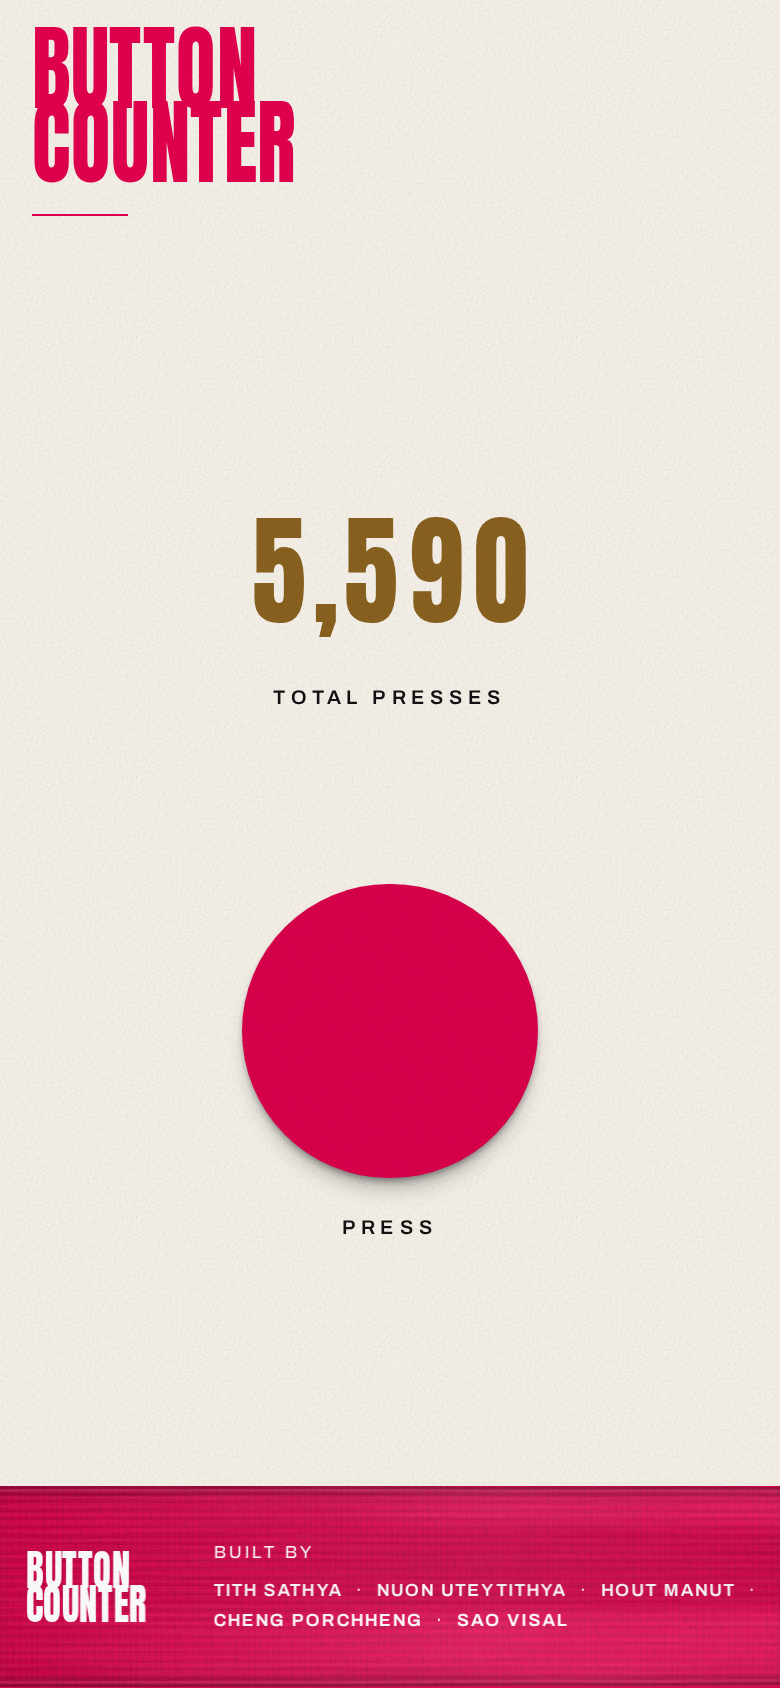
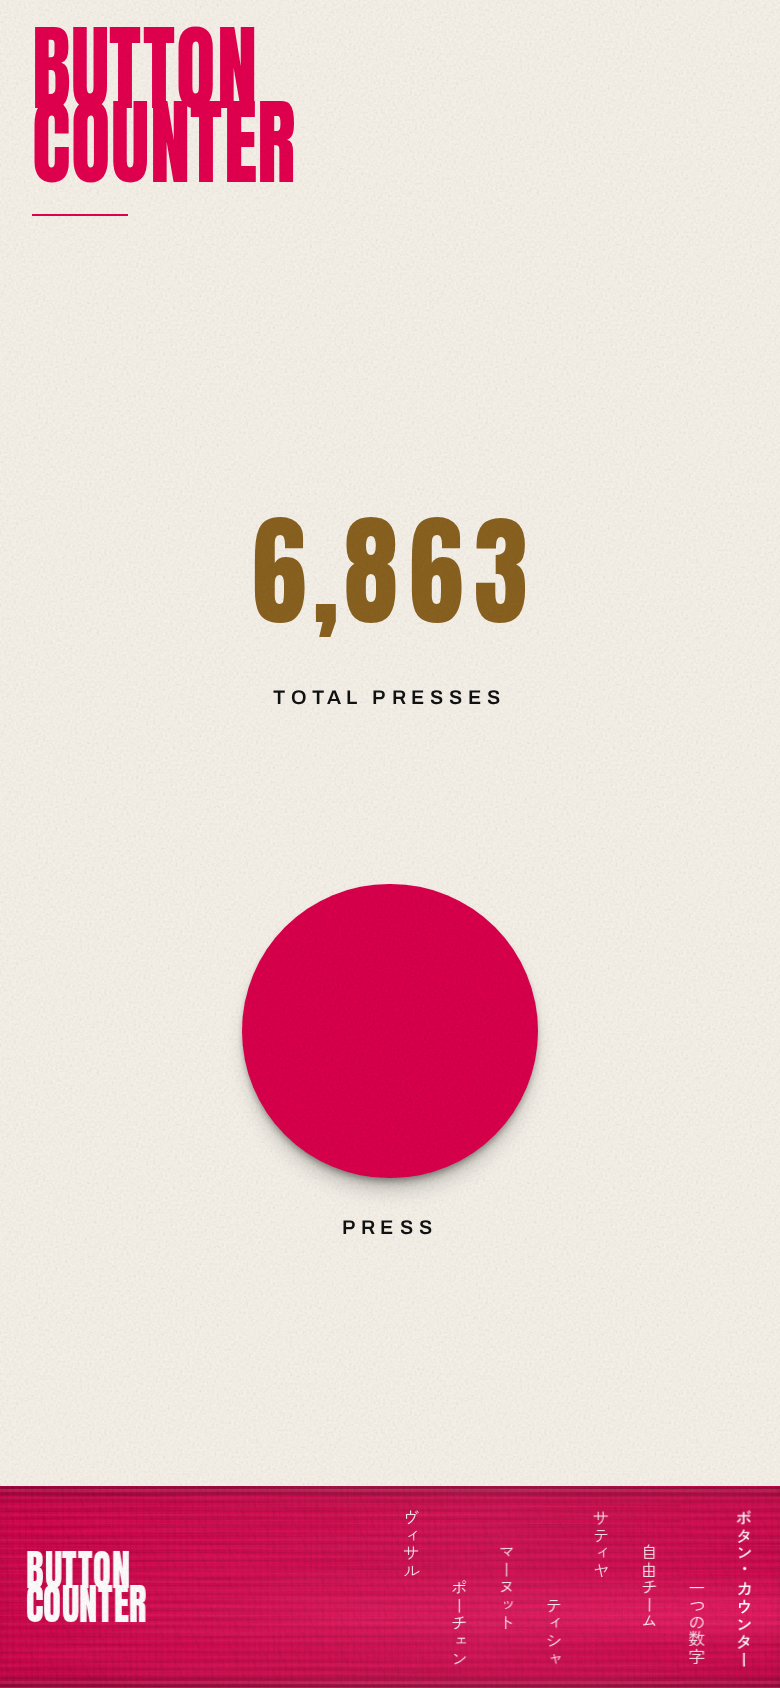
style: set the team credits as katakana columns (#39)
The names read as vertical katakana columns in the band, in the same
Japanese face as the columns beside them, and hang to the left of the
stack columns so the existing copy keeps its order.

diff --git a/src/lib/components/Counter.svelte b/src/lib/components/Counter.svelte
@@ -533,24 +533,20 @@
 					<p class="credits__mark">Button<br />Counter</p>
 				</div>
 
-				<div class="credits__team">
-					<p class="credits__team-title">Built by</p>
-					<ul class="credits__names">
-						<li>Tith Sathya</li>
-						<li>Nuon Uteytithya</li>
-						<li>Hout Manut</li>
-						<li>Cheng Porchheng</li>
-						<li>Sao Visal</li>
+				<div class="vcols">
+					<span class="vcol" aria-hidden="true">ボタン・カウンター</span>
+					<span class="vcol vcol--thin" aria-hidden="true">一つの数字</span>
+					<span class="vcol vcol--thin" aria-hidden="true">自由チーム</span>
+					<span class="vcol vcol--thin vcol--en" aria-hidden="true">SVELTEKIT</span>
+					<span class="vcol vcol--thin vcol--en" aria-hidden="true">TYPESCRIPT</span>
+					<span class="vcol vcol--thin vcol--en" aria-hidden="true">TURSO</span>
+					<ul class="vcols__names" lang="ja">
+						<li class="vcol vcol--thin">サティヤ</li>
+						<li class="vcol vcol--thin">ティシャ</li>
+						<li class="vcol vcol--thin">マーヌット</li>
+						<li class="vcol vcol--thin">ポーチェン</li>
+						<li class="vcol vcol--thin">ヴィサル</li>
 					</ul>
-				</div>
-
-				<div class="vcols" aria-hidden="true">
-					<span class="vcol">ボタン・カウンター</span>
-					<span class="vcol vcol--thin">一つの数字</span>
-					<span class="vcol vcol--thin">自由チーム</span>
-					<span class="vcol vcol--thin vcol--en">SVELTEKIT</span>
-					<span class="vcol vcol--thin vcol--en">TYPESCRIPT</span>
-					<span class="vcol vcol--thin vcol--en">TURSO</span>
 				</div>
 			</div>
 		</div>
@@ -1053,51 +1049,11 @@
 		flex: none;
 	}
 
-	.credits__team {
-		flex: 1 1 auto;
-		min-width: 0;
-		display: flex;
-		flex-direction: column;
-		justify-content: center;
-		gap: 0.4rem;
-		color: var(--white);
-		padding-right: clamp(0.6rem, 2vw, 1.6rem);
-	}
-
-	.credits__team-title {
-		margin: 0;
-		font-size: 0.55rem;
-		font-weight: 400;
-		letter-spacing: 0.2em;
-		line-height: 1.4;
-		text-transform: uppercase;
-	}
-
-	.credits__names {
+	.vcols__names {
+		display: contents;
 		margin: 0;
 		padding: 0;
 		list-style: none;
-		display: flex;
-		flex-wrap: wrap;
-		column-gap: 0.55rem;
-		row-gap: 0.15rem;
-		font-size: 0.55rem;
-		font-weight: 600;
-		letter-spacing: 0.18em;
-		line-height: 1.5;
-		text-transform: uppercase;
-	}
-
-	.credits__names li {
-		display: flex;
-		align-items: center;
-		gap: 0.55rem;
-		white-space: nowrap;
-	}
-
-	.credits__names li:not(:last-child)::after {
-		content: '\00b7';
-		font-weight: 400;
 	}
 
 	.vcols {
@@ -1156,6 +1112,8 @@
 	}
 
 	.band--edge .vcols {
+		/* shrink to the columns themselves so .credits' space-between keeps
+		   them against the band's right edge */
 		flex: 0 1 auto;
 		justify-content: flex-end;
 		gap: clamp(0.7rem, 2.2vw, 1.9rem);
@@ -1176,19 +1134,6 @@
 		}
 		.credits__block {
 			max-width: 34%;
-		}
-		.credits__team {
-			padding-right: 0;
-		}
-		.credits__names {
-			letter-spacing: 0.12em;
-			column-gap: 0.4rem;
-		}
-		.credits__names li {
-			gap: 0.4rem;
-		}
-		.vcols {
-			display: none;
 		}
 		.vcol--en {
 			display: none;
